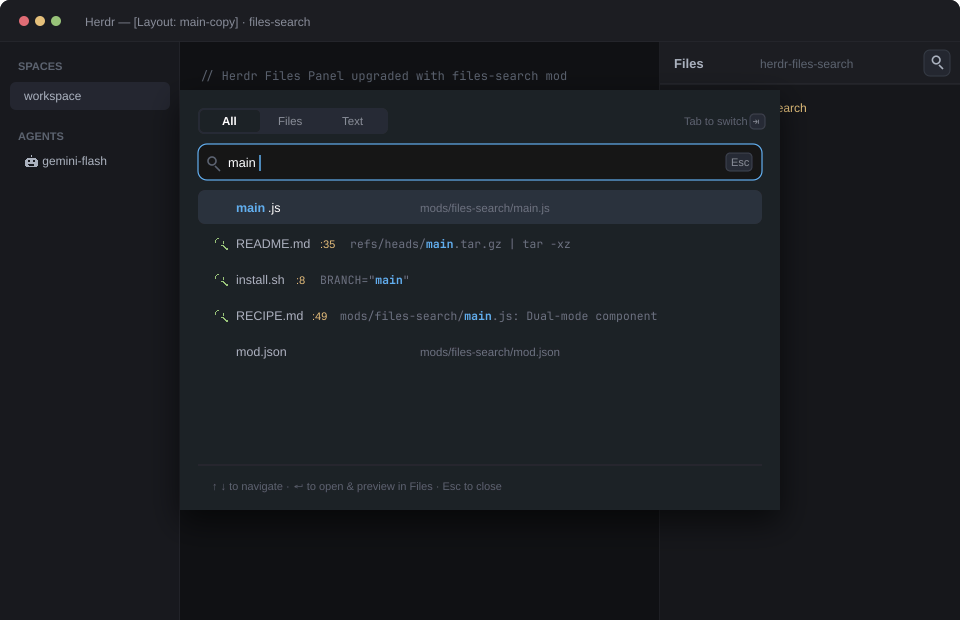
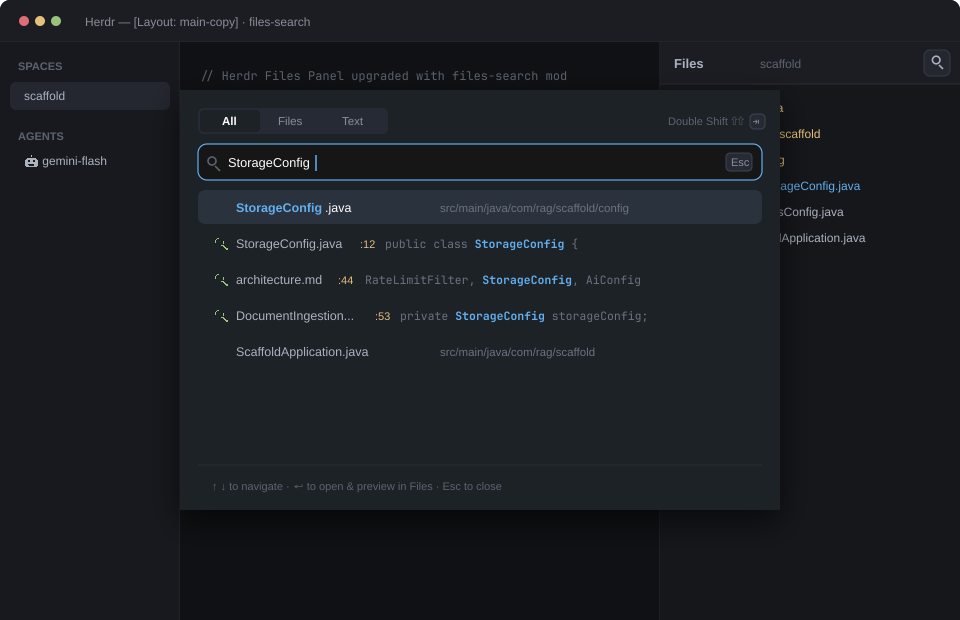
fix: remove depth limit in file scanner, add double-shift & ctrl-shift-f shortcuts

diff --git a/mods/files-search/main.js b/mods/files-search/main.js
@@ -79,6 +79,8 @@ export default class FilesSearch extends View {
     this.pending = new Set();
     this.marks = {};
     this.lastSelectedTs = 0;
+    this.lastShiftPress = 0;
+    this.panelHandle = cx.focus_handle();
     this.refresh(cx);
     cx.timer.every(10000, cx => this.refresh(cx));
   }
@@ -325,6 +327,7 @@ export default class FilesSearch extends View {
     const t = theme();
     return v_flex()
       .id("files")
+      .track_focus(this.panelHandle)
       .size_full()
       .min_h(0)
       .rounded(10)
@@ -334,6 +337,21 @@ export default class FilesSearch extends View {
       .border_color(t.border)
       .text_color(t.foreground)
       .text_size(13)
+      .on_key_down((e, cx) => {
+        // IntelliJ Shift-Shift shortcut detection
+        const now = Date.now();
+        if (e.key === "shift" || e.keystroke === "shift") {
+          if (now - this.lastShiftPress < 450) {
+            this.openSearchOverlay();
+            this.lastShiftPress = 0;
+            cx.stop_propagation();
+            return;
+          }
+          this.lastShiftPress = now;
+        } else {
+          this.lastShiftPress = 0;
+        }
+      })
       .child(
         h_flex()
           .h(42)
@@ -433,23 +451,25 @@ export default class FilesSearch extends View {
 
     cx.spawn(async cx => {
       try {
-        // Fast file listing using git or rg or find
         let list = [];
-        const gitRes = await exec("git", ["ls-files", "--cached", "--others", "--exclude-standard"], { cwd: root, on }).catch(() => null);
-        if (gitRes?.code === 0 && gitRes.stdout.trim()) {
-          list = gitRes.stdout.split("\n").map(s => s.trim()).filter(Boolean);
+        // Script that lists all workspace files with no depth truncation
+        const script = 'if command -v rg >/dev/null 2>&1; then rg --files --hidden --glob "!.git" 2>/dev/null; elif git rev-parse --show-toplevel >/dev/null 2>&1; then git ls-files --cached --others --exclude-standard; else find . -not -path "*/.*" -not -path "*/target/*" -not -path "*/build/*" -not -path "*/node_modules/*" -type f | sed "s|^./||"; fi';
+        const res = await exec("sh", ["-c", script], { cwd: root, on }).catch(() => null);
+        if (res?.code === 0 && res.stdout.trim()) {
+          list = res.stdout.split("\n").map(s => s.trim().replace(/^\.\//, "")).filter(Boolean);
         } else {
-          const rgRes = await exec("rg", ["--files", "--max-depth", "8"], { cwd: root, on }).catch(() => null);
-          if (rgRes?.code === 0 && rgRes.stdout.trim()) {
-            list = rgRes.stdout.split("\n").map(s => s.trim().replace(/^\.\//, "")).filter(Boolean);
+          // Fallback direct calls
+          const gitRes = await exec("git", ["ls-files", "--cached", "--others", "--exclude-standard"], { cwd: root, on }).catch(() => null);
+          if (gitRes?.code === 0 && gitRes.stdout.trim()) {
+            list = gitRes.stdout.split("\n").map(s => s.trim().replace(/^\.\//, "")).filter(Boolean);
           } else {
-            const findRes = await exec("sh", ["-c", 'find . -maxdepth 6 -not -path "*/.*" -type f | sed "s|^./||"'], { cwd: root, on }).catch(() => null);
-            if (findRes?.code === 0) {
-              list = findRes.stdout.split("\n").map(s => s.trim()).filter(Boolean);
+            const rgRes = await exec("rg", ["--files", "--hidden", "--glob", "!.git"], { cwd: root, on }).catch(() => null);
+            if (rgRes?.code === 0 && rgRes.stdout.trim()) {
+              list = rgRes.stdout.split("\n").map(s => s.trim().replace(/^\.\//, "")).filter(Boolean);
             }
           }
         }
-        this.fileList = list.slice(0, 8000);
+        this.fileList = list.slice(0, 15000);
       } catch (err) {
         this.fileList = [];
       } finally {
@@ -537,12 +557,13 @@ export default class FilesSearch extends View {
 
   // Returns array of items: { kind: 'file'|'text', path, name, hits, score, line?, content?, matchedQuery? }
   searchResults() {
-    const q = this.query.trim().toLowerCase();
+    const rawQ = this.query.trim().toLowerCase();
+    const q = rawQ.replace(/\s+/g, "");
 
     // 1. Matched files
     let matchedFiles = [];
     if (this.tab === "all" || this.tab === "files") {
-      if (!q) {
+      if (!rawQ) {
         matchedFiles = this.fileList.slice(0, 30).map(path => {
           const name = path.split("/").pop() || path;
           return { kind: "file", path, name, score: 0, hits: [] };
@@ -559,13 +580,13 @@ export default class FilesSearch extends View {
               kind: "file",
               path,
               name,
-              score: best.score + (matchName ? 5 : 0),
-              hits: matchName ? best.hits : [],
+              score: best.score + (matchName ? 10 : 0),
+              hits: matchName ? matchName.hits : [],
             });
           }
         }
         scored.sort((a, b) => b.score - a.score);
-        matchedFiles = scored.slice(0, 40);
+        matchedFiles = scored.slice(0, 50);
       }
     }
 
@@ -576,7 +597,7 @@ export default class FilesSearch extends View {
     if (this.tab === "text") return textItems;
 
     // "All": top files, then top text results
-    return [...matchedFiles.slice(0, 20), ...textItems.slice(0, 20)];
+    return [...matchedFiles.slice(0, 25), ...textItems.slice(0, 25)];
   }
 
   renderHighlightedTitle(t, text, hits, isSelected) {
